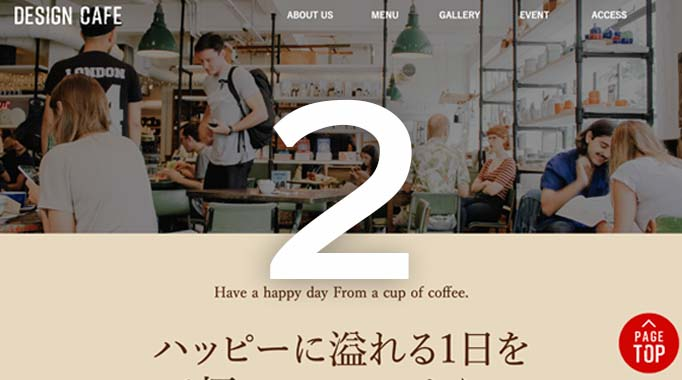
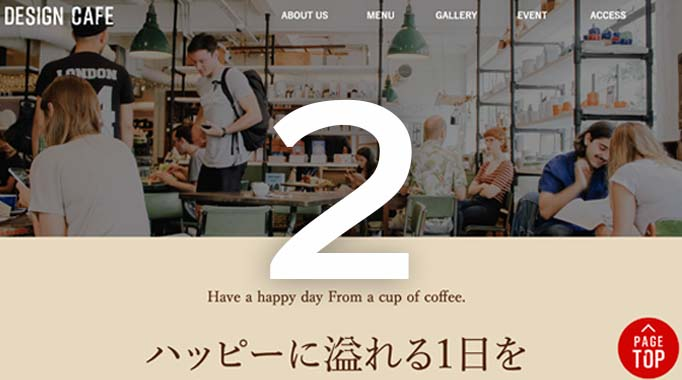
ポートフォリオ0125

diff --git a/css/style.css b/css/style.css
@@ -35,9 +35,6 @@ a {
     color: inherit;
     transition: 0.3s;
 }
-a:hover {
-    opacity: 0.7;
-}
 ul {
     /*左の「・」を消す*/
     list-style: none;
@@ -150,20 +147,68 @@ h2 span::before {
     justify-content: end;
     padding: 18px 50px 0 0;
 }
-.header--nav ul li {
-    padding: 14px 30px;
+.header--nav ul li a {
     font-size: 16px;
+    padding: 14px 30px;
+    display: block;
+    position: relative;
+}
+.header--nav ul li a::after {
+    position: absolute;
+    bottom: -4px;
+    left: 0;
+    content: "";
+    width: 100%;
+    height: 2px;
+    background: #ad8f86;
+    transform: scale(0, 1);
+    transform-origin: left top;
+    transition: transform 0.3s;
+}
+.header--nav ul li a:hover::after {
+    transform: scale(1, 1);
 }
 .header--contact {
-    color: #fff;
     background-color: #ad8f86;
     border-radius: 8px;
     box-shadow: -3px -3px 10px rgba(255, 255, 255, 0.1),
         3px 3px 10px rgba(0, 0, 0, 0.03);
+    position: relative;
+    width: 120px;
+    height: 44px;
+    text-align: center;
+    display: flex;
+}
+.header--contact__text {
+    width: 100%;
+    height: 100%;
+    color: #fff;
+    z-index: 10;
+}
+.header--contact__text::before {
+    content: "";
+    position: absolute;
+    top: 0;
+    bottom: 0;
+    width: 0;
+    display: block;
+    background: #f1e2da;
+    border-radius: 8px;
+    box-shadow: -3px -3px 10px rgba(255, 255, 255, 0.1),
+        3px 3px 10px rgba(0, 0, 0, 0.03);
+    z-index: -1;
+    transition: 0.2s;
+}
+.header--contact__text:hover {
+    color: #ad8f86;
+}
+.header--contact__text:hover::before {
+    width: 100%;
 }
 /* mainvisual */
 .mainvisual {
     display: flex;
+    margin-bottom: 80px;
 }
 .mainvisual--message {
     writing-mode: vertical-rl;
@@ -219,10 +264,26 @@ h1 {
     margin-bottom: 20px;
 }
 .about--background {
-    margin-right: calc(50% - 45vw);
-    margin-left: calc(50% - 45vw);
+    margin-right: calc(50% - 50vw);
+    margin-left: calc(50% - 50vw);
 }
+.about--background p {
+    font-size: 280px;
+    font-weight: 900;
+    color: #faf1ec;
+    text-align: center;
+    text-shadow: -3px -3px 20px rgba(255, 255, 255, 0.1),
+        3px 3px 20px rgba(0, 0, 0, 0.02);
+    overflow: hidden;
+}
+
 /* works */
+.works--slider {
+    margin: calc(50% - 50vw);
+}
+.works--slider div {
+    padding: 0 20px;
+}
 .works--slider img {
     border-radius: 10px;
     width: 100%;
@@ -414,6 +475,9 @@ h1 {
     margin-bottom: 30px;
     justify-content: center;
 }
+.contact--form dl:last-of-type {
+    margin-bottom: 50px;
+}
 .contact--form dt {
     width: 28%;
 }
@@ -481,12 +545,13 @@ h1 {
 .footer--contents {
     display: flex;
     padding-top: 70px;
-    margin-bottom: 45px;
+    max-width: 1000px;
+    margin: 0 auto 45px auto;
 }
 .footer--contents__name p {
     color: #fff;
     font-size: 30px;
-    margin-right: 100px;
+    margin: 0 100px 0 35px;
 }
 .footer--contents__nav li {
     color: #fff;
@@ -509,4 +574,40 @@ h1 {
     color: #fff;
     font-size: 8px;
     text-align: center;
+}
+/* TOPに戻るボタン */
+.top p {
+    position: fixed;
+    right: 50px;
+    bottom: 50px;
+    font-size: 25px;
+    color: #ad8f86;
+    background-color: #f8ece5;
+    border-radius: 50%;
+    padding: 20px;
+    box-shadow: -3px -3px 10px rgba(255, 255, 255, 0.1),
+        3px 3px 10px rgba(0, 0, 0, 0.03);
+}
+
+/* Worksスライダー調整 */
+.slick-track {
+    margin-bottom: 34px;
+}
+.slick-dots {
+    bottom: -25px;
+}
+.slick-dots li button:before {
+    color: #fff;
+    opacity: 100%;
+}
+.slick-dots li.slick-active button:before {
+    color: #ad8f86;
+}
+.works--slider .slick-slide:not(.slick-center) {
+    -webkit-filter: opacity(50%);
+    -moz-filter: opacity(50%);
+    -o-filter: opacity(50%);
+    -ms-filter: opacity(50%);
+    filter: opacity(50%);
+    transition: 0.2s linear;
 }

diff --git a/index.html b/index.html
@@ -11,7 +11,8 @@
     <link rel="stylesheet" type="text/css"
         href="https://cdn.jsdelivr.net/npm/slick-carousel@1.8.1/slick/slick-theme.css">
     <link rel="stylesheet" href="css/style.css">
-    <script src="https://cdn.jsdelivr.net/npm/slick-carousel@1.8.1/slick/slick.min.js"></script>
+    <script src="https://ajax.googleapis.com/ajax/libs/jquery/3.6.0/jquery.min.js"></script>
+    <script type="text/javascript" src="https://cdn.jsdelivr.net/npm/slick-carousel@1.8.1/slick/slick.min.js"></script>
     <!-- 源ノ角ゴシック -->
     <script>
         (function (d) {
@@ -27,13 +28,14 @@
 
 <body>
     <div>
-        <header>
+        <header id="header">
             <nav class="header--nav">
                 <ul>
                     <li><a href="#about">About</a></li>
                     <li><a href="#works">Works</a></li>
                     <li><a href="#service">Service</a></li>
-                    <li class="header--contact"><a href="#contact">Contact</a></li>
+                    <li><a href="#contact" class="header--contact"><span
+                                class="header--contact__text">Contact</span></a></li>
                 </ul>
             </nav>
         </header>
@@ -66,7 +68,8 @@
                             </div>
                         </div>
                         <div class="about--background">
-                            <img src="imges/about_text.png" alt="ABOUT ME">
+                            <p>ABOUT</p>
+                            <p>ME</p>
                         </div>
                     </div>
                 </div>
@@ -82,7 +85,7 @@
                     <div>
                         <picture>
                             <source srcset="" media="(max-width:767px)">
-                            <img src="imges/works_01designcafe.jpg" alt="デザインカフェのホームページ実績">
+                            <img src="imges/works_01designcafe01.jpg" alt="デザインカフェのホームページ実績">
                         </picture>
                     </div>
                     <div>
@@ -275,17 +278,34 @@
             </div>
             <p class="footer--contents__c">©Manami Suzuki</p>
         </footer>
+        <div class="top">
+            <a href="#header">
+                <p>↑</p>
+            </a>
+        </div>
     </div>
     <script>
         $(function () {
-            $('.works--slider').slick({
-                slidesToShow: 3,
-                slidesToScroll: 1,
-                autoplay: true,
-                autoplaySpeed: 2000,
-                dots: true,
+            $('a[href^="#"]').click(function () {
+                let speed = 500;
+                let type = "swing";
+                let href = $(this).attr("href");
+                let target = $(href == "#" || href == "" ? 'html' : href);
+                let position = target.offset().top;
+                $('html,body').animate({ scrollTop: position }, speed, type);
             });
         });
+        $("document").ready(function () {
+            $('.works--slider').slick({
+                autoplay: true,
+                autoplaySpeed: 3000,
+                speed: 800,
+                dots: true,
+                arrows: false,
+                centerMode: true,
+                centerPadding: '15%'
+            });
+        }); 
     </script>
 
 </body>
